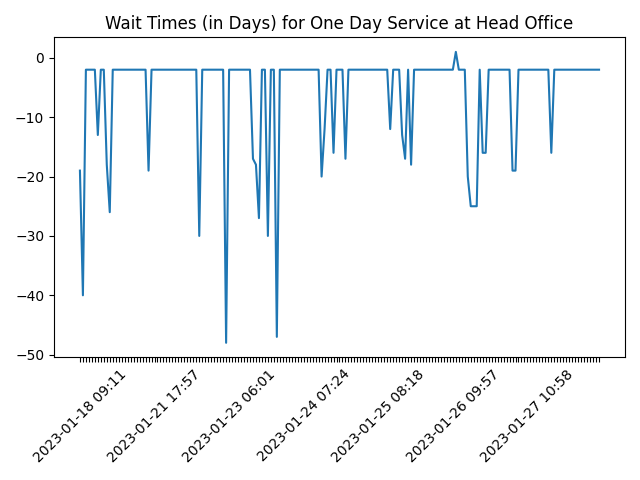
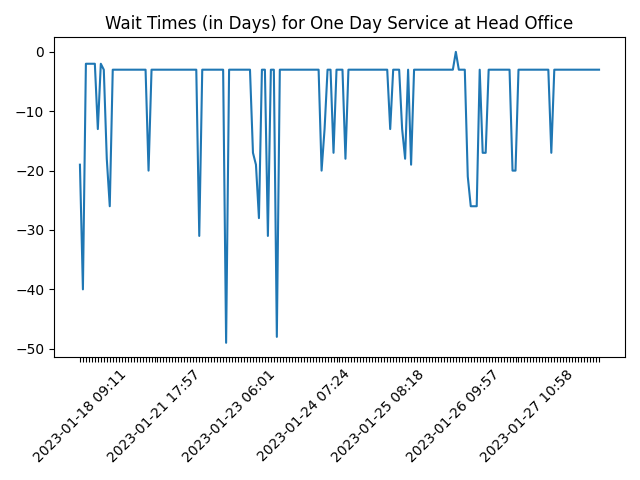
Updated data Mon Mar 13 06:30:00 UTC 2023

diff --git a/README.md b/README.md
@@ -1,5 +1,5 @@
 # Passport Application Reservation System - Availability Report
 
-*As of March 13, 2023 (06:13 AM)*
+*As of March 13, 2023 (11:59 AM)*
 
 Data Source: [Passport Application Reservation System](https://eservices.immigration.gov.lk:8443/appointment/pages/reservationApplication.xhtml)

diff --git a/summary.md b/summary.md
@@ -2,7 +2,7 @@
 
 Of the data from the Passport Application Reservation System of the Sri Lanka Department of Immigration and Emigration.
 
-*As of 2023-03-13 06:13:04*
+*As of 2023-03-13 11:59:58*
 
 ![Wait Time Chart](summary.wait_time_chart.png)
 
